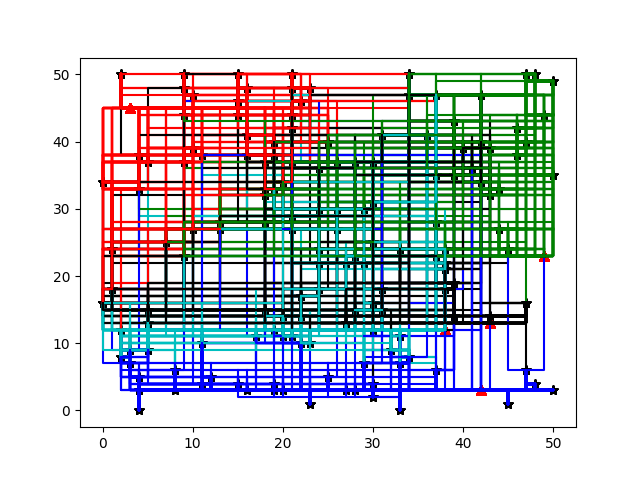
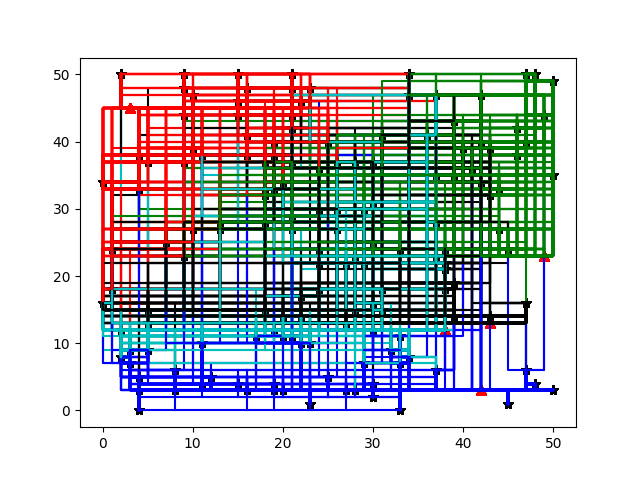
bijna klaar

Changed region(s): [[0.1562, 0.125, 0.875, 0.875], [0.8125, 0.6875, 0.8438, 0.7812]]

diff --git a/algorithms/ConstraintRelaxation.py b/algorithms/ConstraintRelaxation.py
@@ -16,15 +16,13 @@ def optimum_creating():
     """
     Connects each house to the closest battery based on distance
     """
-   
+    random.shuffle(houses)
+
     # houses that are currently not being used because the battery is full
     unused_houses = []
 
     # total costs for the cables
     total_costs = 0
-
-    # shuffle
-    random.shuffle(houses)
 
     # loop to connect all houses
     for house in houses:
@@ -79,7 +77,7 @@ def optimum_creating():
             # adds costs of cables for this house to the battery
             house.add_costs(battery)
             battery.add_house_info(house)
-
+            
             # no unused houses left, applies hillclimber to optimalize connections
             if len(unused_houses) <= 1:
 
@@ -89,15 +87,22 @@ def optimum_creating():
     # if algorithm is finished run constraint_relaxation algorithm
     if len(unused_houses) <= 1:
         constraint_relaxation()
+
         # run_output()
+        total_costs = constraint_relaxation()
+    
+    return total_costs
+    
+
 
 
 
 def constraint_relaxation():
 
     """
-    Connects cables of coupeled houses in most profitable way, closest option to connect
+    Connects cables of coupled houses in most profitable way, closest option to connect
     """
+    
 
     # initialize total costs as 0 
     total_costs = 0
@@ -157,21 +162,21 @@ def constraint_relaxation():
 
             # plot all houses, batteries and lines
             plt.plot(x,y, color= colors[i])
-            ax = plt.subplot()
+            ax = plt.subplot(111)
             houses_plt = ax.scatter(house.x, house.y, color='k', marker='*')
             batteries_plt = ax.scatter(battery.x, battery.y, color='r', marker='^')
 
-        # calculate costs for all cables to this battery and append this to the total costs
+        # calculate costs for all cables to this battery and add this to the total costs
         number_of_cables = len(cables_coordinates)
         cables_costs = number_of_cables * 9
         total_costs = total_costs + cables_costs
     
-    print(f"The total costs for this district are: {total_costs}")
+        # make plot
+        plt.savefig("Constraintrelaxation.png")
 
-    # # make plot
-    fig = plt.savefig("ConstraingRelaxation.png")
-    return fig
+    return total_costs
         
+
 def run_output():
 
     for curr_batt in batteries:
@@ -182,3 +187,25 @@ def run_output():
 
             for cable_point in curr_house.cables:
                 print(cable_point)
+
+
+def run_multiple_times():
+
+    results = []
+    
+    curr_total_costs = 50000
+    
+    for i in range(1000):
+        optimum_creating()
+        new_total_costs = constraint_relaxation()
+
+        if new_total_costs < curr_total_costs:
+            curr_total_costs = new_total_costs
+        results.append(curr_total_costs)
+        print(curr_total_costs)
+        print(results)
+    
+        for house in houses:
+            house.clear_house()
+        for battery in batteries:
+            battery.clear(house)

diff --git a/algorithms/Random.py b/algorithms/Random.py
@@ -6,6 +6,7 @@ from . import helper
 import random
 import matplotlib.pyplot as plt
 from matplotlib import style
+import copy
 
 # read in all data
 reader = models.load_data.Load_data()
@@ -18,33 +19,39 @@ def random_algorithm():
     """
 
     count = 0
-
-    tot_rand_costs = 0
-
-    random.shuffle(houses)
+    battery_price = 5000
+    tot_rand_costs = 5 * battery_price
+    temp_houses = copy.deepcopy(houses)
+    random.shuffle(temp_houses)
 
     for battery in batteries:
+        house_list = []
+        
 
-        for house in houses:
+        for i in range(30):
 
-            if battery.status(house) == True and house.connected_to == None:
+            house = random.choice(temp_houses)
 
-                battery.connect_house(house)
-                house.route_calc(battery)
-                house.add_costs(battery)
-                tot_rand_costs = tot_rand_costs + house.costs
+            temp_houses.remove(house)
 
-                house.connect_to_battery(battery)
-                count += 1
+            battery.connect_house(house)
+            house.route_calc(battery)
+            house.add_costs(battery)
+            tot_rand_costs = tot_rand_costs + house.costs
+            
+            house.connect_to_battery(battery)
 
-    if count < 149:
-        battery.clear(house)
-        house.clear_house()
-        random_algorithm()
-    else:
-        return tot_rand_costs 
+            house_list.append(house.id)
 
-    print(f"kosten!:{tot_rand_costs}")
+            if battery.capacity < 0:
+                battery.remove_house(house)
+                battery.connect_house(random.choice(houses))
+
+
+    return tot_rand_costs 
+    
+
+    # print(f"kosten!:{tot_rand_costs}")
 
 
 def plot_random_algorithm():
@@ -92,24 +99,30 @@ def run_rand_output():
 def run_multiple_times():
 
     results = []
-    
-    curr_total_costs = 50000
-    
-    for i in range(3):
-        
-        new_total_costs = random_algorithm()
-        
-        if new_total_costs < curr_total_costs:
-            curr_total_costs = new_total_costs
+    x = 0
+    curr_total_costs = 100000
+    count = 0
+    for i in range(100000):
+        x += 1
+        print(x)
+        # new_total_costs = random_algorithm()
+        count += random_algorithm()
+        # if new_total_costs < curr_total_costs:
+            # curr_total_costs = new_total_costs
 
-            results.append(curr_total_costs)
-            print(curr_total_costs)
-            print(results)
-            
-
+        # results.append(curr_total_costs)
+        # print(curr_total_costs)
+        # print(results)
+        # print(len(results))
 
         for house in houses:
             house.clear_house()
             for battery in batteries:
                 battery.clear(house)
+    
+    average = count/100000
+    print (average)
+    print (count)
+    
+        
         

diff --git a/algorithms/helper.py b/algorithms/helper.py
@@ -30,7 +30,7 @@ def hillclimber(batteries, houses):
                             # if curr_house in curr_battery.houses_to_battery:
                             # remove current house van current battery
                             curr_battery.remove_house(curr_house)
-                            curr_house.deconnect_to_battery(curr_battery)
+                            curr_house.disconnect_battery(curr_battery)
 
                             # connect next house aan current battery
                             curr_battery.connect_house(next_house)
@@ -39,7 +39,7 @@ def hillclimber(batteries, houses):
                             # STAP 2:
                             # remove next house van next battery
                             next_battery.remove_house(next_house)
-                            next_house.deconnect_to_battery(next_battery)
+                            next_house.disconnect_battery(next_battery)
 
                             # connect current house aan next battery
                             next_battery.connect_house(curr_house)
@@ -65,7 +65,7 @@ def hillclimbertwo(batteries, houses):
                             # if curr_house in curr_battery.houses_to_battery:
                             # remove current house van current battery
                             curr_battery.remove_house(curr_house)
-                            curr_house.deconnect_to_battery(curr_battery)
+                            curr_house.disconnect_battery(curr_battery)
 
                             # connect next house aan current battery
                             curr_battery.connect_house(next_house)
@@ -74,7 +74,7 @@ def hillclimbertwo(batteries, houses):
                             # STAP 2:
                             # remove next house van next battery
                             next_battery.remove_house(next_house)
-                            next_house.deconnect_to_battery(next_battery)
+                            next_house.disconnect_battery(next_battery)
 
                             # connect current house aan next battery
                             next_battery.connect_house(curr_house)

diff --git a/randostore.py b/randostore.py
@@ -1,0 +1,40 @@
+def random_algorithm():
+    """
+    Connects each house randomly to a battery
+    """
+
+    count = 0
+
+    tot_rand_costs = 0
+
+    random.shuffle(houses)
+
+    for battery in batteries:
+        count = 0
+        for house in houses:
+
+            while battery.status(house) == True and house.connected_to == None:
+
+                battery.connect_house(house)
+                house.route_calc(battery)
+                house.add_costs(battery)
+                tot_rand_costs = tot_rand_costs + house.costs
+
+                house.connect_to_battery(battery)
+                count += 1
+        print (count)
+    if count == 150:
+        return tot_rand_costs 
+
+    # print(f"kosten!:{tot_rand_costs}")
+
+
+[83, 11, 35, 130, 128, 60, 28, 3, 90, 109, 147, 85, 100, 104, 17, 7, 141, 114, 25, 16, 96, 67, 115, 71, 113, 88, 30, 18, 121, 70]
+30
+[19, 132, 55, 123, 2, 134, 140, 142, 72, 22, 66, 107, 110, 32, 4, 126, 56, 136, 58, 8, 64, 129, 37, 73, 69, 24, 98, 99, 92, 10]
+30
+[36, 117, 29, 42, 34, 50, 138, 108, 95, 51, 6, 78, 101, 1, 76, 116, 47, 41, 122, 144, 143, 77, 74, 40, 103, 94, 54, 82, 39, 112]
+30
+[62, 105, 15, 106, 53, 5, 65, 137, 97, 119, 26, 46, 124, 33, 61, 102, 79, 45, 148, 84, 131, 91, 118, 86, 111, 135, 13, 150, 127, 93]
+30
+[31, 49, 27, 43, 149, 80, 75, 81, 87, 89, 48, 38, 12, 133, 59, 9, 44, 68, 21, 120, 23, 63, 145, 125, 14, 146, 139, 57, 20, 52]

diff --git a/models/battery.py b/models/battery.py
@@ -19,27 +19,6 @@ class Battery:
     def __str__(self):
         return f"location:{self.coordinates},\n{self.capacity},\nhouses:"       
 
-
-    def add_house_info(self, house):
-        house_info = {}
-
-        house_info["location"] = house.coordinates
-
-        self.houses.append(house_info)
-
-        house_info["output"] = house.maxoutput
-        
-        self.houses.append(house_info)
-
-        house_info["cables"] = house.cables
-
-        self.houses.append(house_info)
-
-    def battery_cost_calculation():
-        total_costs_bat = 0
-        total_costs_bat = len(batteries) * 5000
-        return total
-
     def connect_house(self, house):
         """
         Connects house to battery and substracts output from the capacity
@@ -48,7 +27,6 @@ class Battery:
         self.houses_to_battery.append(house)
         self.housesid_to_battery.append(house.id)
         self.capacity -= house.maxoutput
-
 
     def remove_house(self, house):
         if house in self.houses_to_battery:

diff --git a/models/house.py b/models/house.py
@@ -105,9 +105,9 @@ class House(object):
 
         self.connected_to = battery
 
-    def deconnect_to_battery(self, battery):
+    def disconnect_battery(self, battery):
         """
-        Deconnects battery
+        Disconnects battery
         """
 
         self.connected_to = None    
